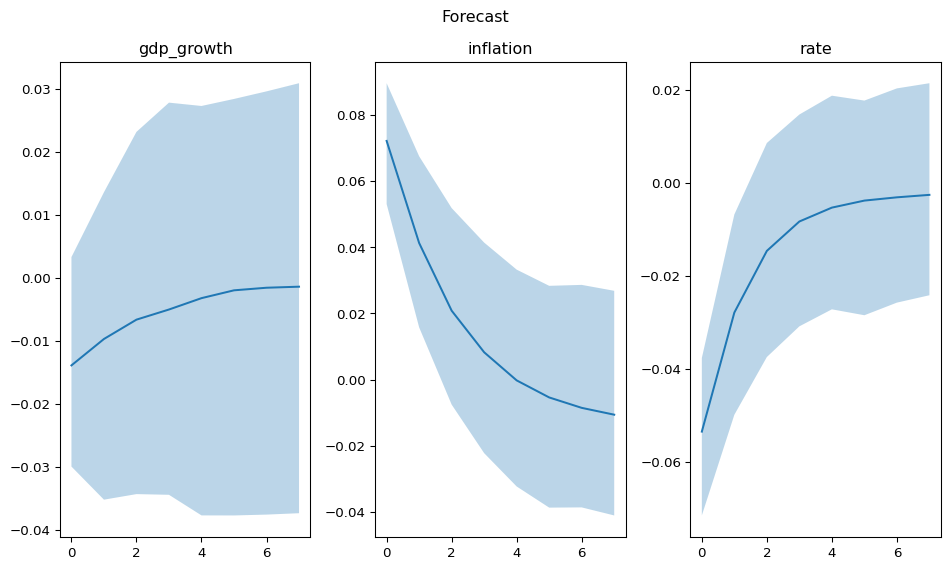
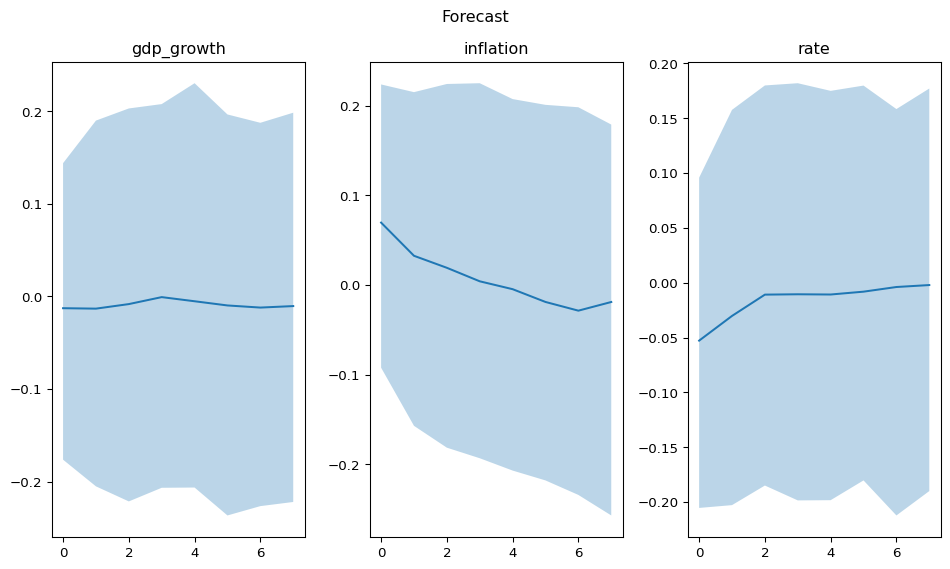
docs: contrast mean vs density forecasts in forecasting tutorial (#97)

Pull request: docs: contrast mean vs density forecasts in forecasting tutorial
## Summary

Completes **WS1** (density forecasts, #92) from the GTM technical plan. The `include_shock_uncertainty` code and tests landed in #96, but the forecasting tutorial still described the old parameter-only behaviour — leaving the library's flagship "honest uncertainty" story undocumented.

## Changes (`docs/tutorials/forecasting.qmd`)

- **Intro framing** — names the two sources of forecast uncertainty (parameter + shocks) and notes `forecast()` includes both by default.
- **Fixes a now-stale claim** — the old text said bands widen from parameter uncertainty *alone* (true before #92, wrong after). Now names both accumulating shocks and compounding parameter uncertainty.
- **New "What the bands include" section** — the credibility artifact §2.5 of the plan asked for:
  - `include_shock_uncertainty=True` (full predictive) vs `False` (parameter-only mean paths), and why reporting the latter as a forecast understates uncertainty.
  - Side-by-side fan chart overlaying both 89% bands.
  - Band-width **ratio table**: the honest band is **~9–10× wider at h=1**, shrinking to ~6–8× by h=8 — the understatement is worst at short horizons.

## Validation

Rendered end-to-end (`quarto render` + postprocess); all cells execute, both figures generated, ratio table confirms the claim. **No source code changed** — WS1's implementation and tests already landed in #96, so `make check` / the suite are unaffected.

🤖 Generated with [Claude Code](https://claude.com/claude-code)
[…]

diff --git a/docs/tutorials/forecasting.md b/docs/tutorials/forecasting.md
@@ -3,6 +3,8 @@
 
 Conventional VARs produce point forecasts. A Bayesian VAR produces a full posterior predictive distribution over future paths. This means every forecast comes with calibrated uncertainty — wide bands when the model is unsure, narrow when the data are informative.
 
+That uncertainty has two sources: the model’s coefficients are only estimated, and the system is hit by a fresh random shock every period. `forecast()` includes both by default. The [section below](#what-the-bands-include) shows why leaving the shocks out — as much VAR tooling implicitly does — understates uncertainty, badly so at short horizons.
+
 ``` python
 import numpy as np
 import pandas as pd
@@ -178,7 +180,7 @@ fitted
     </table>
 </div>
 
-    FittedVAR(n_lags=1, data=VARData(endog_names=['gdp_growth', 'inflation', 'rate'], exog_names=None), var_names=['gdp_growth', 'inflation', 'rate'], has_exog=False)
+    FittedVAR(n_lags=1, data=VARData(endog_names=['gdp_growth', 'inflation', 'rate'], exog_names=None), var_names=['gdp_growth', 'inflation', 'rate'], volatility=Constant(name='constant', is_time_varying=False, sigma_sd_beta=2.5, tril_offdiag_sigma=0.5))
 
 ## Point forecasts
 
@@ -191,14 +193,14 @@ fcast.median()
 
 |     | gdp_growth | inflation | rate      |
 |-----|------------|-----------|-----------|
-| 0   | -0.013904  | 0.072168  | -0.053514 |
-| 1   | -0.009715  | 0.041279  | -0.027897 |
-| 2   | -0.006648  | 0.020815  | -0.014629 |
-| 3   | -0.005040  | 0.008232  | -0.008310 |
-| 4   | -0.003237  | -0.000271 | -0.005325 |
-| 5   | -0.001996  | -0.005426 | -0.003812 |
-| 6   | -0.001585  | -0.008575 | -0.003110 |
-| 7   | -0.001419  | -0.010643 | -0.002580 |
+| 0   | -0.012656  | 0.069556  | -0.052775 |
+| 1   | -0.013128  | 0.032538  | -0.030248 |
+| 2   | -0.008212  | 0.019128  | -0.010819 |
+| 3   | -0.000685  | 0.004069  | -0.010505 |
+| 4   | -0.005153  | -0.004712 | -0.010715 |
+| 5   | -0.009687  | -0.018979 | -0.008123 |
+| 6   | -0.011980  | -0.028681 | -0.003874 |
+| 7   | -0.010367  | -0.019014 | -0.002091 |
 
 Each row is a forecast horizon (1 through 8 quarters ahead). The values converge toward the unconditional mean of the process as the horizon increases — a hallmark of stationary VARs.
 
@@ -217,27 +219,27 @@ print(hdi.upper)
 
     Lower bounds:
        gdp_growth  inflation      rate
-    0   -0.029950   0.053070 -0.071551
-    1   -0.035203   0.015770 -0.049894
-    2   -0.034322  -0.007591 -0.037466
-    3   -0.034431  -0.022282 -0.030866
-    4   -0.037699  -0.032357 -0.027206
-    5   -0.037708  -0.038754 -0.028479
-    6   -0.037572  -0.038684 -0.025764
-    7   -0.037351  -0.041122 -0.024178
+    0   -0.176323  -0.092290 -0.205369
+    1   -0.205131  -0.157166 -0.202808
+    2   -0.221412  -0.181536 -0.184941
+    3   -0.206683  -0.193314 -0.198503
+    4   -0.206406  -0.207065 -0.198302
+    5   -0.236575  -0.218074 -0.180260
+    6   -0.226494  -0.234259 -0.212227
+    7   -0.222014  -0.257147 -0.189988
 
     Upper bounds:
        gdp_growth  inflation      rate
-    0    0.003275   0.089627 -0.037677
-    1    0.013563   0.067530 -0.006803
-    2    0.023137   0.051853  0.008579
-    3    0.027775   0.041415  0.014705
-    4    0.027247   0.033236  0.018755
-    5    0.028361   0.028338  0.017704
-    6    0.029564   0.028623  0.020326
-    7    0.030857   0.026834  0.021439
+    0    0.144030   0.223678  0.095839
+    1    0.190039   0.215089  0.157698
+    2    0.203153   0.224199  0.179956
+    3    0.207867   0.225057  0.181995
+    4    0.230420   0.207368  0.175023
+    5    0.196664   0.200923  0.179835
+    6    0.187660   0.198234  0.158418
+    7    0.198557   0.178922  0.177154
 
-The intervals widen at longer horizons. This is expected: uncertainty compounds over time because each forecast step propagates parameter uncertainty forward.
+The intervals widen at longer horizons. This is expected: two forces compound over time — the random shocks hitting the system accumulate, and parameter uncertainty propagates forward as each forecast step feeds into the next.
 
 ## Visualise the forecast
 
@@ -251,6 +253,75 @@ fig = fcast.plot()
 
 The fan chart shows the posterior median (line) and 89% HDI (shaded region) for each variable. The bands widen at longer horizons, reflecting compounding uncertainty. GDP growth and the interest rate show the widest bands, consistent with their stronger cross-variable dependencies in the DGP.
 
+## What the bands include
+
+The forecast above is a genuine posterior predictive distribution: it composes *parameter uncertainty* (the coefficients are estimated, not known) with *shock uncertainty* (each future period draws a fresh innovation). This is the default — `include_shock_uncertainty=True`.
+
+Setting `include_shock_uncertainty=False` switches the shocks off and propagates only the posterior over conditional-mean paths. The result is a distribution over what the model *expects* to happen, not over what *will* happen. It is the right object for scenario mechanics, but it is not a predictive distribution — and reporting it as one is a common way to understate forecast uncertainty. Pass `seed` in density mode to make the drawn shocks reproducible.
+
+``` python
+mean_fcast = fitted.forecast(steps=8, include_shock_uncertainty=False)
+density_fcast = fitted.forecast(steps=8, include_shock_uncertainty=True, seed=42)
+
+mean_hdi = mean_fcast.hdi(prob=0.89)
+density_hdi = density_fcast.hdi(prob=0.89)
+```
+
+Plotting both 89% bands on the same axes shows the gap. The narrow inner band is parameter uncertainty alone; the wider band is the full predictive.
+
+``` python
+import matplotlib.pyplot as plt
+
+horizons = range(1, 9)
+fig, axes = plt.subplots(1, n_vars, figsize=(12, 4), squeeze=False)
+
+for i, name in enumerate(data.endog_names):
+    ax = axes[0][i]
+    med = density_fcast.median()[name].values
+    ax.fill_between(
+        horizons, density_hdi.lower[name], density_hdi.upper[name],
+        alpha=0.25, color="C0", label="full predictive",
+    )
+    ax.fill_between(
+        horizons, mean_hdi.lower[name], mean_hdi.upper[name],
+        alpha=0.5, color="C1", label="parameter only",
+    )
+    ax.plot(horizons, med, color="black", lw=1)
+    ax.set_title(name)
+    ax.set_xlabel("horizon")
+
+axes[0][0].legend(loc="upper left", fontsize=8)
+fig.tight_layout()
+```
+
+![](forecasting_files/figure-commonmark/cell-9-output-1.png)
+
+The understatement is worst at the shortest horizons. At `h=1`, parameter uncertainty is small — the data pin the coefficients down — so a mean-only band is almost invisible, yet the true one-step forecast still carries the full shock variance. The ratio of band widths makes this concrete:
+
+``` python
+width_mean = mean_hdi.upper - mean_hdi.lower
+width_density = density_hdi.upper - density_hdi.lower
+
+ratio = (width_density / width_mean).round(1)
+ratio.index = range(1, 9)
+ratio.index.name = "horizon"
+ratio
+```
+
+|         | gdp_growth | inflation | rate |
+|---------|------------|-----------|------|
+| horizon |            |           |      |
+| 1       | 9.9        | 9.0       | 9.1  |
+| 2       | 7.6        | 7.7       | 8.2  |
+| 3       | 6.9        | 7.1       | 8.1  |
+| 4       | 7.1        | 6.6       | 8.3  |
+| 5       | 7.0        | 6.0       | 7.7  |
+| 6       | 6.7        | 6.3       | 8.2  |
+| 7       | 6.5        | 6.5       | 8.2  |
+| 8       | 6.3        | 6.1       | 8.1  |
+
+Each entry is how many times wider the honest band is than the parameter-only band. The multiple is largest at `h=1` and shrinks as parameter uncertainty grows into the total — the opposite of the intuition that near-term forecasts are the certain ones.
+
 ## Tidy export
 
 For downstream analysis or dashboarding, `.to_dataframe()` returns the median forecast in a tidy DataFrame format.
@@ -262,14 +333,14 @@ fcast.to_dataframe()
 |      | gdp_growth | inflation | rate      |
 |------|------------|-----------|-----------|
 | step |            |           |           |
-| 0    | -0.013904  | 0.072168  | -0.053514 |
-| 1    | -0.009715  | 0.041279  | -0.027897 |
-| 2    | -0.006648  | 0.020815  | -0.014629 |
-| 3    | -0.005040  | 0.008232  | -0.008310 |
-| 4    | -0.003237  | -0.000271 | -0.005325 |
-| 5    | -0.001996  | -0.005426 | -0.003812 |
-| 6    | -0.001585  | -0.008575 | -0.003110 |
-| 7    | -0.001419  | -0.010643 | -0.002580 |
+| 0    | -0.012656  | 0.069556  | -0.052775 |
+| 1    | -0.013128  | 0.032538  | -0.030248 |
+| 2    | -0.008212  | 0.019128  | -0.010819 |
+| 3    | -0.000685  | 0.004069  | -0.010505 |
+| 4    | -0.005153  | -0.004712 | -0.010715 |
+| 5    | -0.009687  | -0.018979 | -0.008123 |
+| 6    | -0.011980  | -0.028681 | -0.003874 |
+| 7    | -0.010367  | -0.019014 | -0.002091 |
 
 ## Summary
 